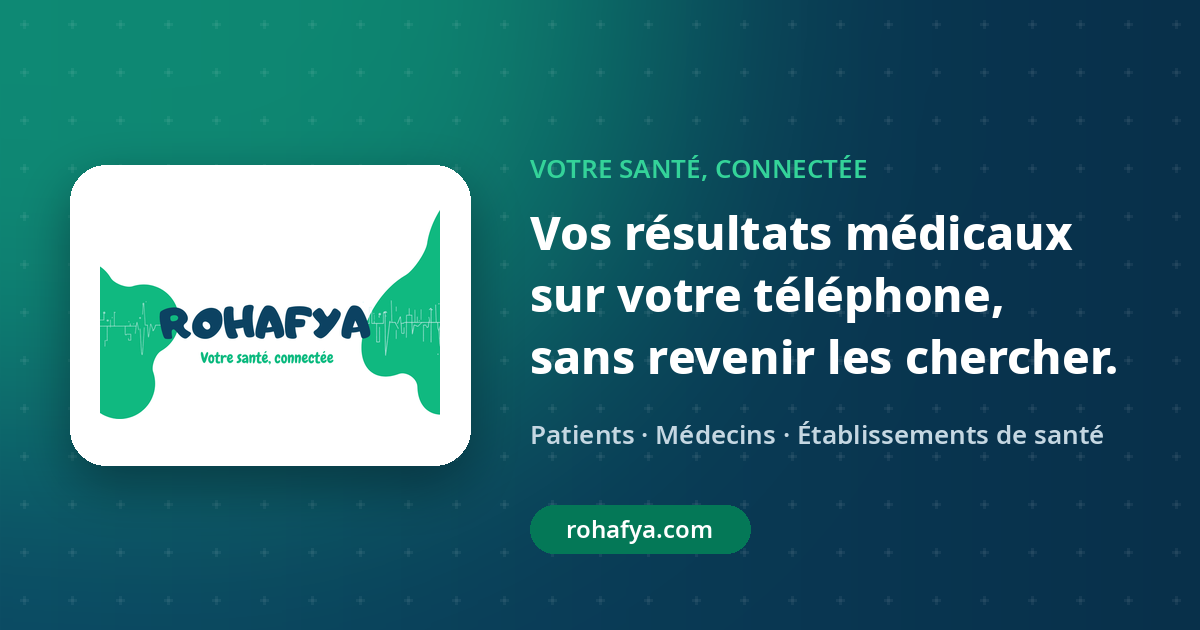
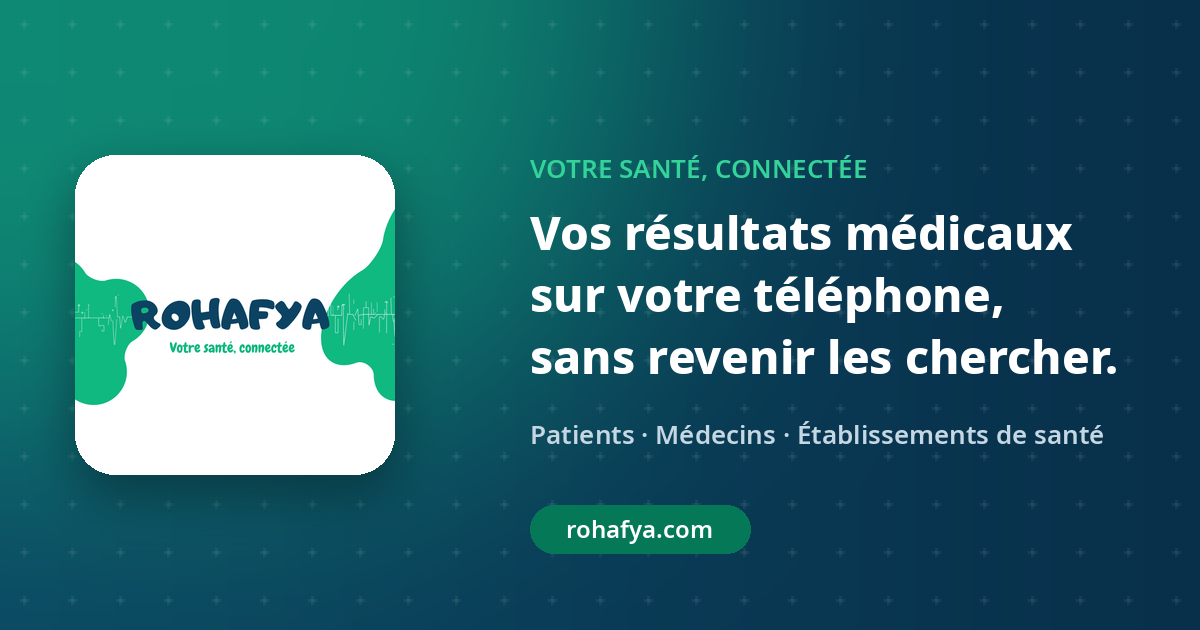
feat(verification): fichier documentation et ressource

Changed region(s): [[0.0308, 0.2413, 0.4008, 0.754]]

diff --git a/src/index.html b/src/index.html
@@ -7,9 +7,10 @@
   <base href="/">
   <meta name="viewport" content="width=device-width, initial-scale=1">
   <meta name="theme-color" content="#0c4562">
-  <link rel="icon" type="image/x-icon" href="favicon.ico">
-  <link rel="icon" type="image/png" sizes="192x192" href="icon-192.png">
-  <link rel="apple-touch-icon" href="apple-touch-icon.png">
+  <link rel="icon" type="image/x-icon" href="favicon.ico?v=2">
+  <link rel="icon" type="image/png" sizes="192x192" href="icon-192.png?v=2">
+  <!-- ?v= : à incrémenter à chaque changement d'icône ou de logo (fichiers statiques gardés un an en cache, voir server.ts). -->
+  <link rel="apple-touch-icon" href="apple-touch-icon.png?v=2">
   <!-- Configuration d'exécution (URL de l'API, version) servie par le conteneur : voir src/server.ts -->
   <script src="env.js"></script>
   <style>
@@ -34,9 +35,12 @@
       opacity: 0;
       visibility: hidden;
     }
+    /* Logo carré sur fond blanc : présenté comme une icône d'application. */
     #rohafya-splash .rohafya-logo {
-      width: min(360px, 80vw);
+      width: min(260px, 64vw);
       height: auto;
+      border-radius: 28px;
+      box-shadow: 0 24px 48px -20px rgba(12, 69, 98, 0.45);
       animation: rohafya-pop 0.7s cubic-bezier(0.34, 1.56, 0.64, 1) both, rohafya-breathe 2.4s 0.7s ease-in-out infinite;
     }
     #rohafya-splash .bar {
@@ -66,7 +70,7 @@
 </head>
 <body>
   <div id="rohafya-splash" role="status" aria-live="polite">
-    <img class="rohafya-logo" src="rohafya-logo.png" width="800" height="491" alt="" />
+    <img class="rohafya-logo" src="rohafya-logo.png?v=2" width="800" height="800" alt="" />
     <div class="bar" aria-hidden="true"></div>
     <span style="position:absolute;width:1px;height:1px;overflow:hidden;clip:rect(0 0 0 0)">Chargement de l'application ROHAFYA…</span>
   </div>

diff --git a/src/app/shared/seo/site.ts b/src/app/shared/seo/site.ts
@@ -7,7 +7,7 @@ export const SITE_URL = 'https://rohafya.com';
 export const SITE_NAME = 'ROHAFYA';
 
 /** Image de partage sur les réseaux sociaux (1200 × 630). */
-export const SOCIAL_IMAGE = { path: '/og-rohafya.png', width: 1200, height: 630, alt: 'ROHAFYA — Votre santé, connectée' };
+export const SOCIAL_IMAGE = { path: '/og-rohafya.png?v=2', width: 1200, height: 630, alt: 'ROHAFYA — Votre santé, connectée' };
 
 /** Pages publiques à indexer, reprises dans le sitemap. */
 export const INDEXABLE_PATHS = ['/intro', '/register', '/connexion'];

diff --git a/src/app/intro/intro.seo.ts b/src/app/intro/intro.seo.ts
@@ -21,7 +21,7 @@ export const INTRO_SEO: PageSeo = {
         '@id': ORGANIZATION_ID,
         name: SITE_NAME,
         url: SITE_URL,
-        logo: `${SITE_URL}/rohafya-logo.png`,
+        logo: `${SITE_URL}/rohafya-logo.png?v=2`,
         slogan: 'Votre santé, connectée',
         areaServed: { '@type': 'Country', name: 'Cameroun' },
         sameAs: SOCIAL_LINKS.map((link) => link.url),
